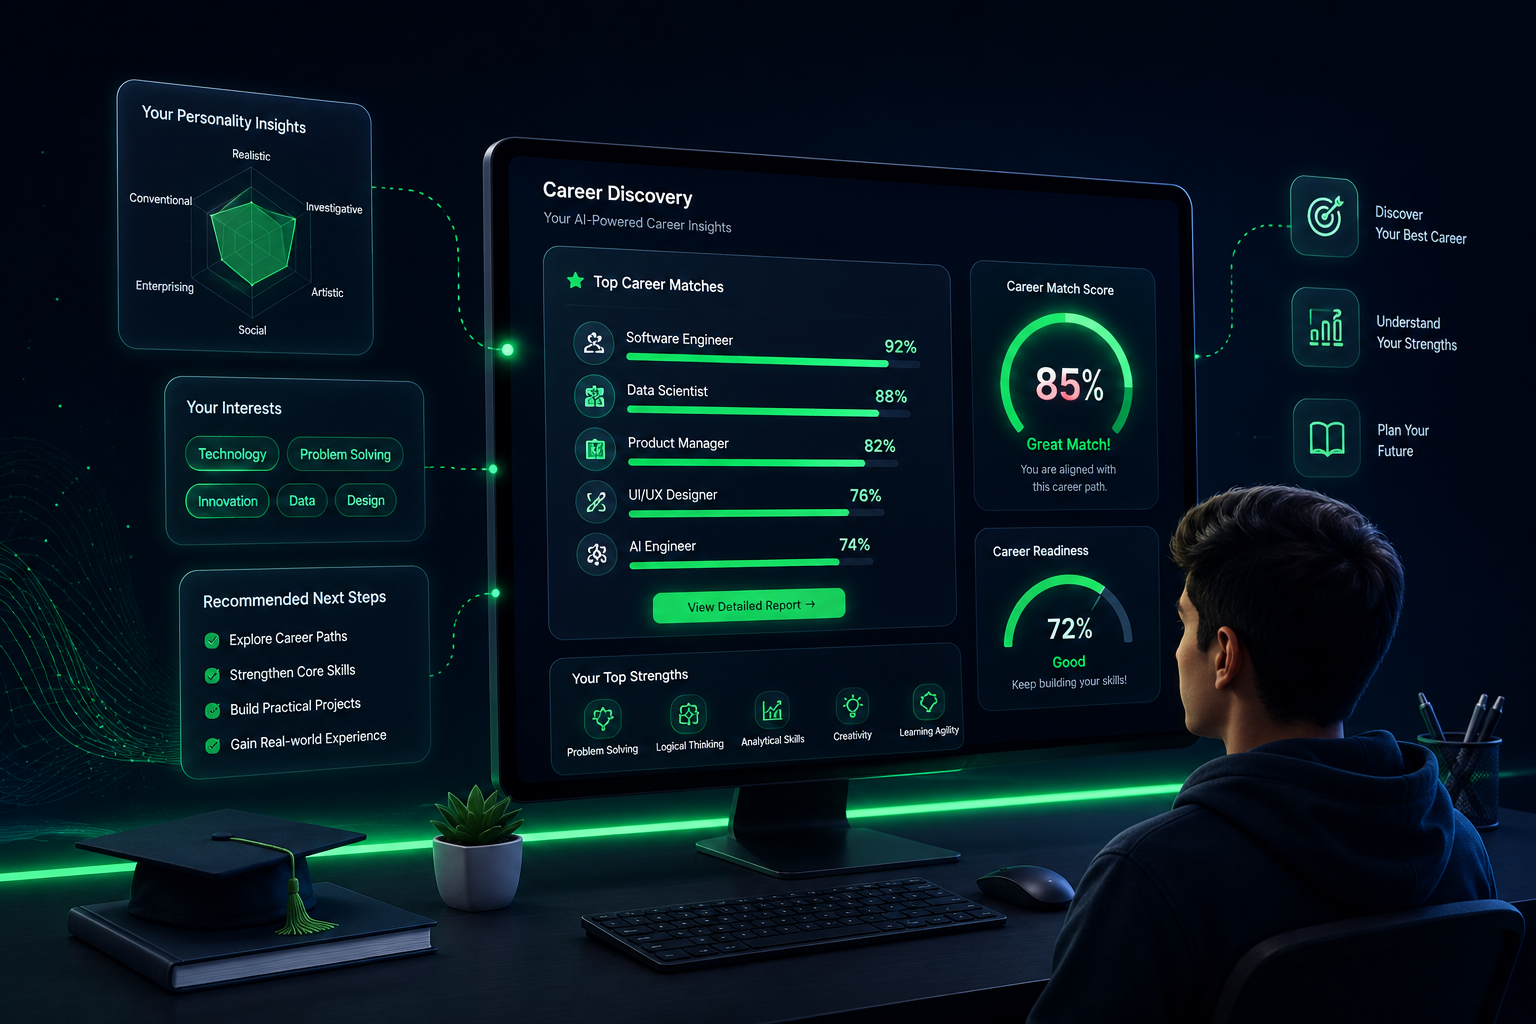
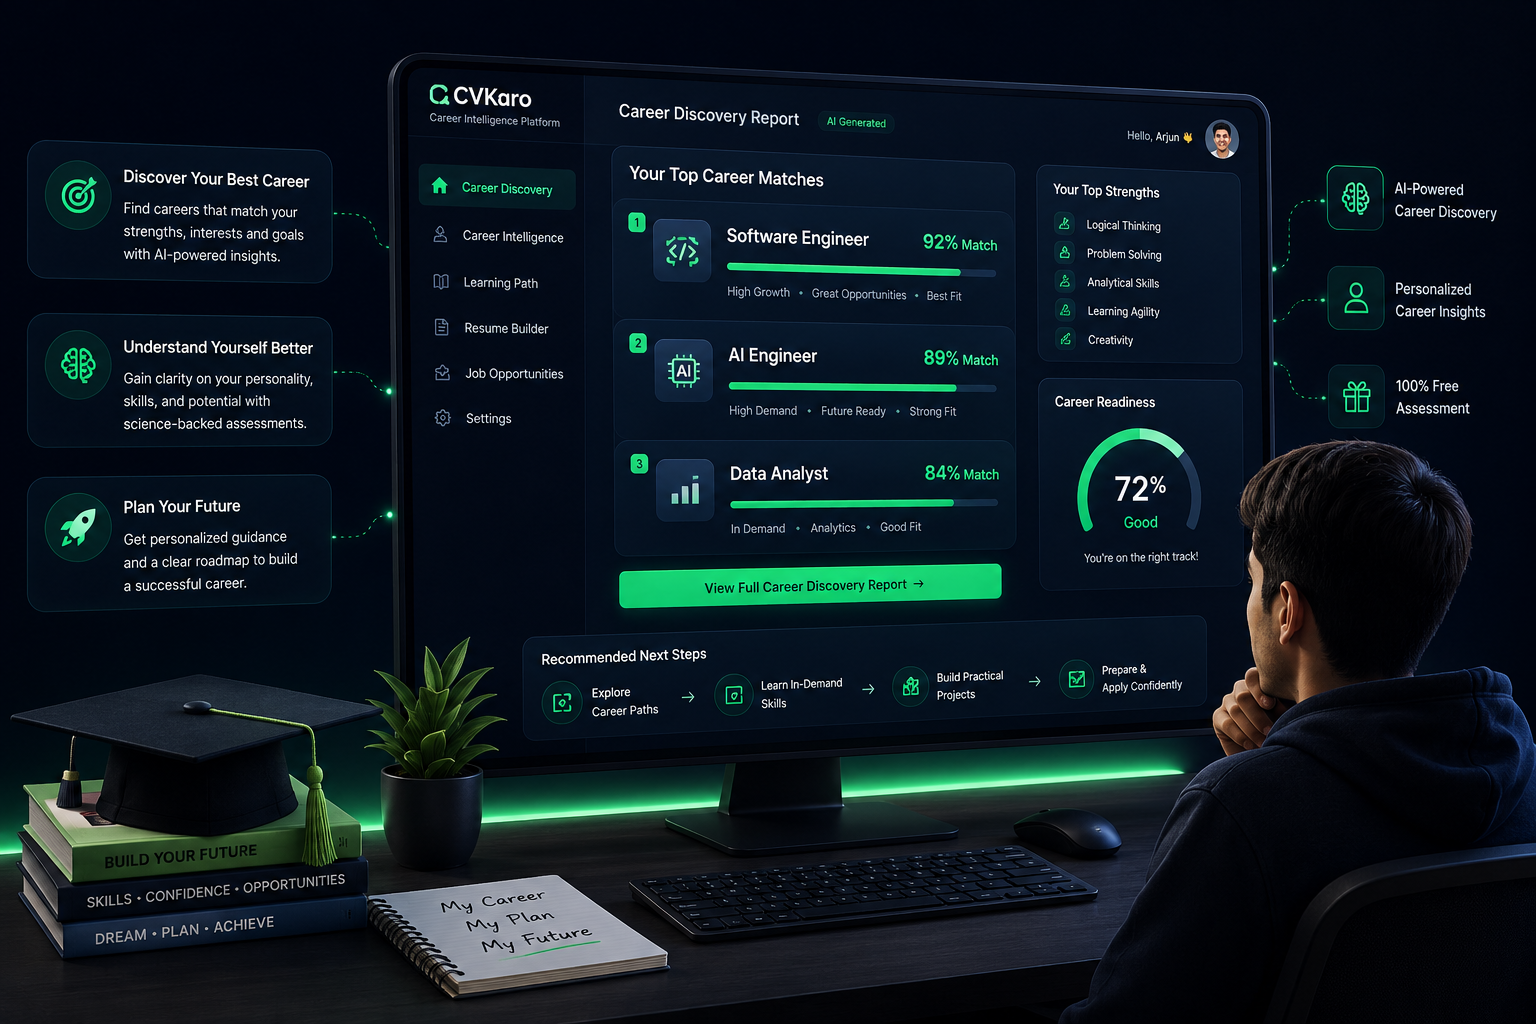
Hero Section image changes commit

Changed region(s): [[0.0, 0.0625, 1.0, 1.0], [0.8438, 0.8438, 0.9062, 0.875], [0.8125, 0.9062, 0.8438, 0.9375]]

diff --git a/src/components/Hero.tsx b/src/components/Hero.tsx
@@ -74,23 +74,18 @@ export default function Hero({ onGetStartedClick }: HeroProps) {
           <div className="lg:col-span-6 flex items-center justify-center" id="hero-right-content">
             <div className="relative w-full max-w-lg lg:max-w-none">
               
-              {/* Background gradient decorative card shadow */}
-              <div className="absolute -inset-1 bg-gradient-to-r from-brand-green to-emerald-400 rounded-2xl blur-lg opacity-20 group-hover:opacity-30 transition duration-1000" />
-              
               {/* Main Image */}
-              <div className="relative bg-white rounded-2xl p-2 sm:p-3 shadow-xl border border-border-gray overflow-hidden">
-                <img
-                  src="/heroimage.png"
-                  alt="AI-Powered Career Discovery Dashboard"
-                  className="w-full h-auto rounded-xl object-cover"
-                  referrerPolicy="no-referrer"
-                  onError={(e) => {
-                    // Fallback to picsum if local image generation is missing or fails
-                    (e.target as HTMLImageElement).src = "https://picsum.photos/seed/dashboard/800/500";
-                  }}
-                />
-
-              </div>
+              <img
+                src="/heroimage.png"
+                alt="AI-Powered Career Discovery Dashboard"
+                className="w-full h-auto object-cover"
+                referrerPolicy="no-referrer"
+                onError={(e) => {
+                  // Fallback to picsum if local image generation is missing or fails
+                  (e.target as HTMLImageElement).src = "https://picsum.photos/seed/dashboard/800/500";
+                }}
+              />
+              
             </div>
           </div>
 
